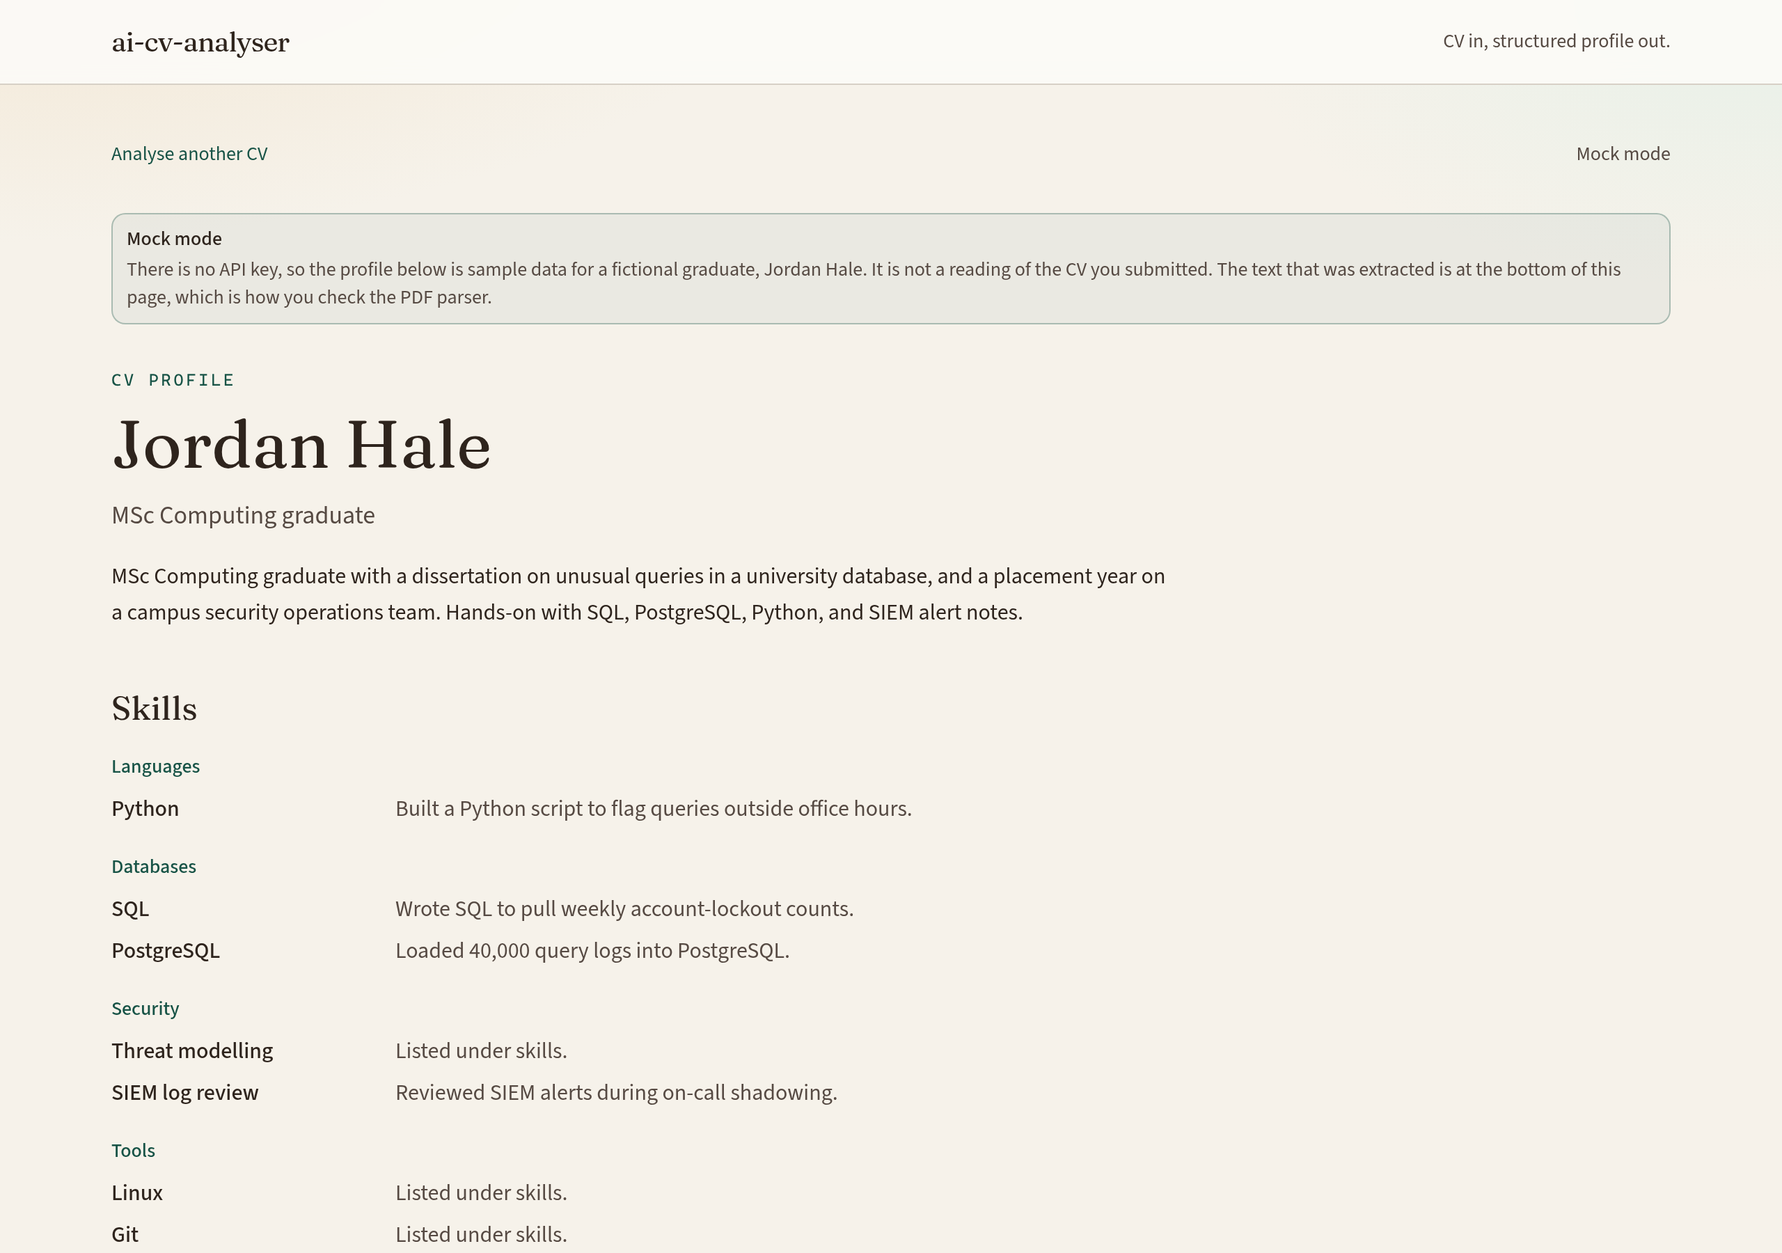
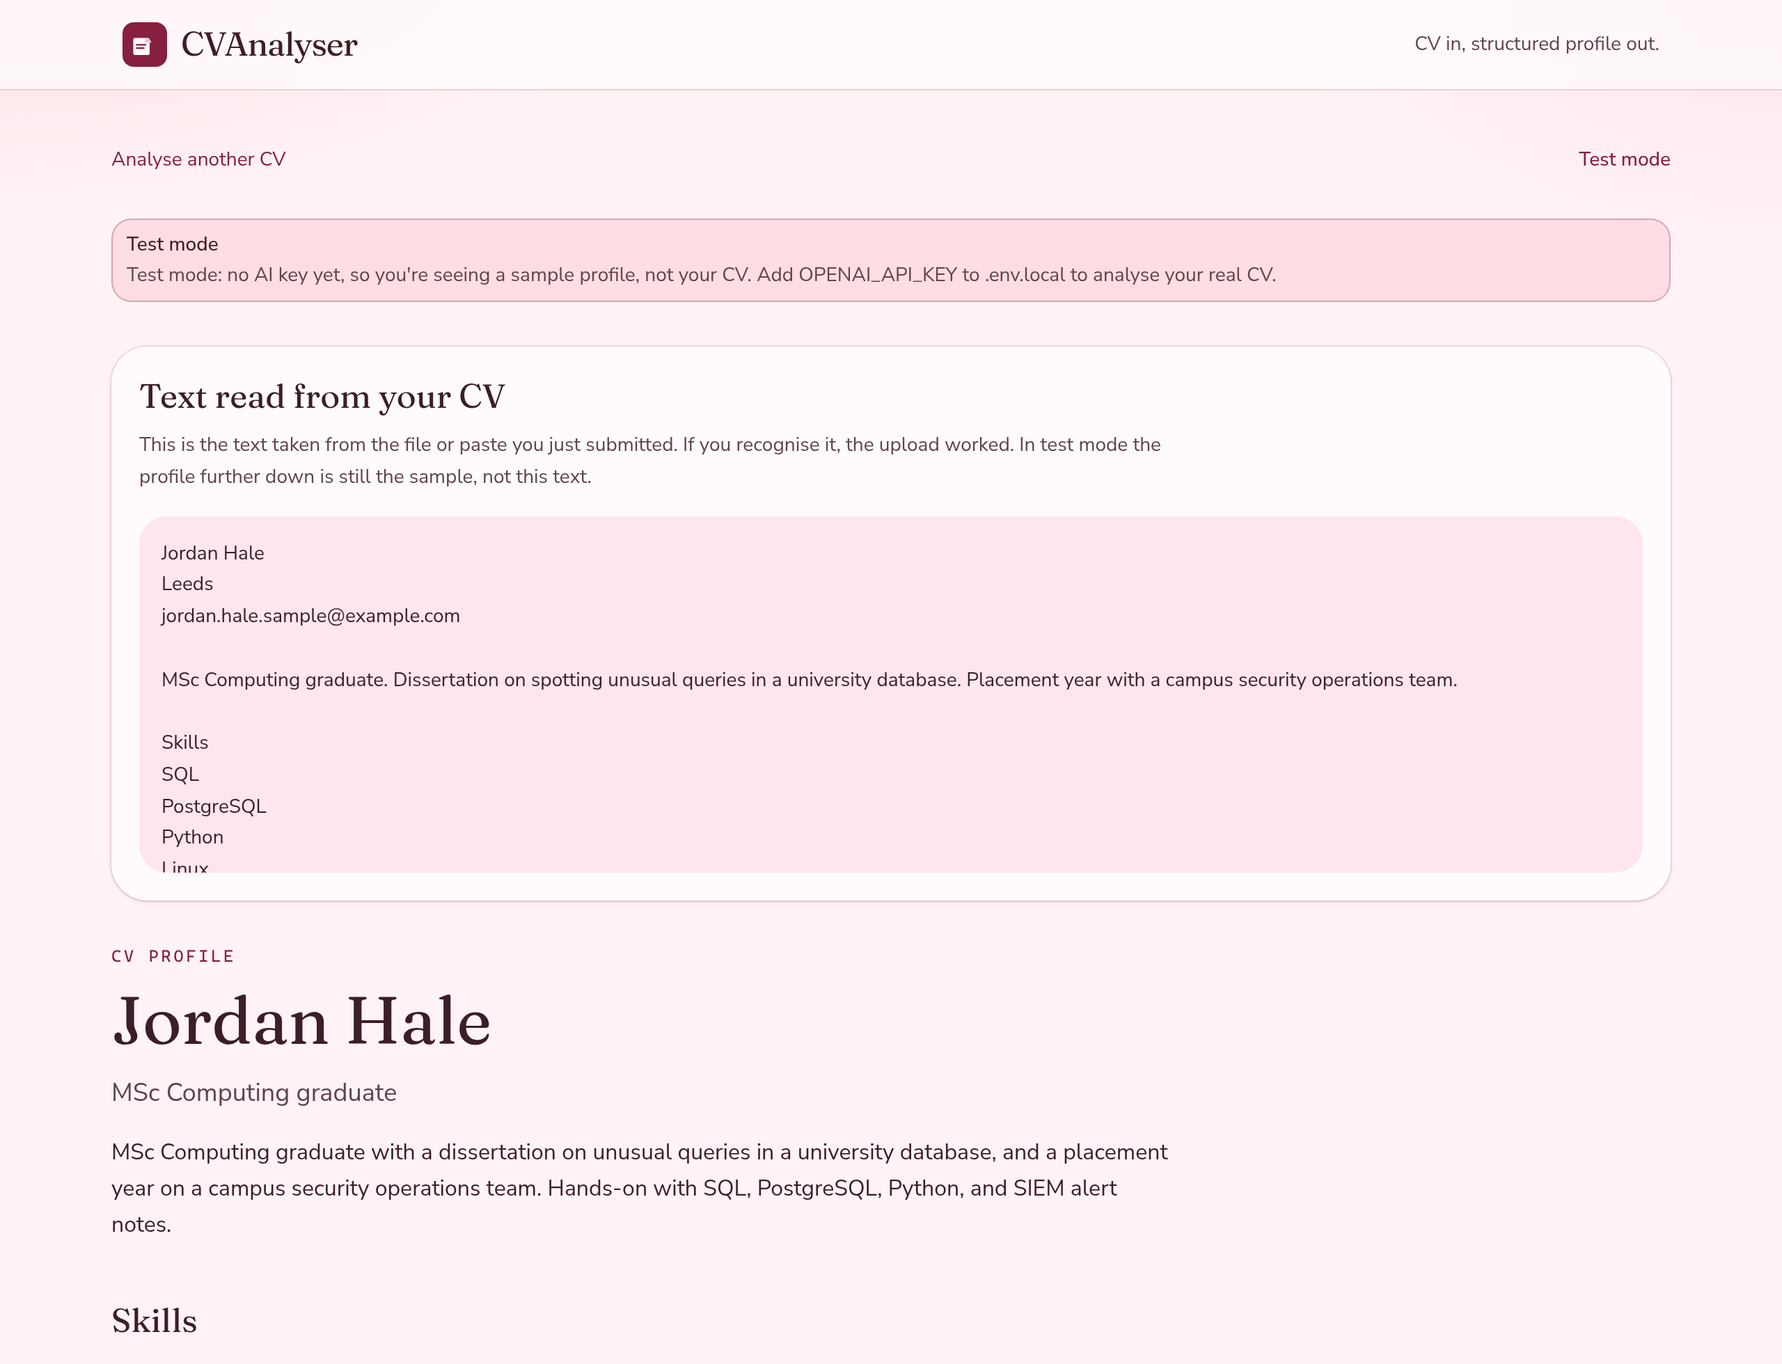
Rename the app to CVAnalyser and clarify test mode
A rose palette and a CV mark replace the old look. The results page now says, in plain words, that the profile is a sample until OPENAI_API_KEY is set, and it shows the text read from the uploaded CV above that profile.

diff --git a/app/globals.css b/app/globals.css
@@ -7,7 +7,7 @@
 @theme inline {
   --color-background: var(--background);
   --color-foreground: var(--foreground);
-  --font-sans: var(--font-source), "Source Sans 3", ui-sans-serif, sans-serif;
+  --font-sans: var(--font-source), "Nunito Sans", ui-sans-serif, sans-serif;
   --font-mono: ui-monospace, "Cascadia Code", "Segoe UI Mono", monospace;
   --font-heading: var(--font-display), Georgia, "Times New Roman", serif;
   --color-sidebar-ring: var(--sidebar-ring);
@@ -49,30 +49,30 @@
 }
 
 :root {
-  --background: oklch(0.962 0.012 88);
-  --foreground: oklch(0.27 0.02 55);
-  --card: oklch(0.988 0.006 92);
-  --card-foreground: oklch(0.27 0.02 55);
-  --popover: oklch(0.988 0.006 92);
-  --popover-foreground: oklch(0.27 0.02 55);
-  --primary: oklch(0.4 0.065 175);
-  --primary-foreground: oklch(0.98 0.01 95);
-  --secondary: oklch(0.93 0.018 85);
-  --secondary-foreground: oklch(0.3 0.02 55);
-  --muted: oklch(0.935 0.014 85);
-  --muted-foreground: oklch(0.42 0.02 55);
-  --accent: oklch(0.93 0.03 175);
-  --accent-foreground: oklch(0.3 0.04 175);
-  --destructive: oklch(0.577 0.245 27.325);
-  --border: oklch(0.86 0.016 80);
-  --input: oklch(0.84 0.016 80);
-  --ring: oklch(0.48 0.06 175);
+  --background: oklch(0.975 0.016 5);
+  --foreground: oklch(0.28 0.045 8);
+  --card: oklch(0.995 0.008 5);
+  --card-foreground: oklch(0.28 0.045 8);
+  --popover: oklch(0.995 0.008 5);
+  --popover-foreground: oklch(0.28 0.045 8);
+  --primary: oklch(0.42 0.14 8);
+  --primary-foreground: oklch(0.99 0.008 5);
+  --secondary: oklch(0.94 0.028 5);
+  --secondary-foreground: oklch(0.32 0.06 8);
+  --muted: oklch(0.95 0.02 5);
+  --muted-foreground: oklch(0.42 0.04 8);
+  --accent: oklch(0.93 0.04 5);
+  --accent-foreground: oklch(0.32 0.08 8);
+  --destructive: oklch(0.5 0.18 22);
+  --border: oklch(0.88 0.028 5);
+  --input: oklch(0.86 0.03 5);
+  --ring: oklch(0.52 0.14 8);
   --chart-1: oklch(0.87 0 0);
   --chart-2: oklch(0.556 0 0);
   --chart-3: oklch(0.439 0 0);
   --chart-4: oklch(0.371 0 0);
   --chart-5: oklch(0.269 0 0);
-  --radius: 0.625rem;
+  --radius: 0.9rem;
   --sidebar: oklch(0.985 0 0);
   --sidebar-foreground: oklch(0.145 0 0);
   --sidebar-primary: oklch(0.205 0 0);
@@ -128,8 +128,8 @@
   body {
     @apply bg-background text-foreground;
     background-image:
-      radial-gradient(1100px 480px at 0% -10%, oklch(0.92 0.035 80 / 0.85), transparent 55%),
-      radial-gradient(800px 420px at 100% 0%, oklch(0.93 0.03 175 / 0.45), transparent 50%);
+      radial-gradient(900px 420px at 0% -8%, oklch(0.9 0.06 5 / 0.7), transparent 55%),
+      radial-gradient(700px 380px at 100% 0%, oklch(0.92 0.05 350 / 0.55), transparent 50%);
     background-attachment: fixed;
   }
 }

diff --git a/components/analyse-form.tsx b/components/analyse-form.tsx
@@ -121,12 +121,18 @@ export function AnalyseForm() {
   }
 
   return (
-    <form onSubmit={onSubmit} className="rounded-xl bg-card px-4 py-5 ring-1 ring-foreground/10 sm:px-6" aria-busy={pending}>
-      <div className="flex flex-col gap-2 sm:flex-row sm:items-end sm:justify-between">
+    <form onSubmit={onSubmit} className="rounded-2xl bg-card px-4 py-6 shadow-sm ring-1 ring-primary/10 sm:px-6" aria-busy={pending}>
+      <Alert className="mb-5 border-primary/25 bg-accent">
+        <AlertTitle>Test mode</AlertTitle>
+        <AlertDescription>
+          No AI key yet. The next page will show a sample profile, not a reading of your CV. Add OPENAI_API_KEY to .env.local to analyse your real CV. The text from your file is still shown, so you can see that the upload worked.
+        </AlertDescription>
+      </Alert>
+      <div className="flex flex-col gap-3 sm:flex-row sm:items-end sm:justify-between">
         <div>
-          <h2 className="font-heading text-2xl">CV and job advert</h2>
+          <h2 className="font-heading text-2xl">Your CV</h2>
           <p className="mt-1 max-w-xl text-sm text-muted-foreground">
-            No key needed to try it. Without <span className="font-mono text-xs">OPENAI_API_KEY</span>, the profile is sample data and the text below is still read locally.
+            Paste the text, or upload a PDF that contains real text rather than a scan.
           </p>
         </div>
         <Button type="button" variant="outline" onClick={loadSample} disabled={pending}>
@@ -221,8 +227,11 @@ export function AnalyseForm() {
           placeholder="Paste the advert here."
           className="mt-2 min-h-40 md:text-base"
         />
+        <p className="mt-2 text-sm leading-relaxed text-muted-foreground">
+          This is the job you want the CV compared with. CVAnalyser keeps the wording you paste. Matching that advert against the CV starts in Lesson 1, and it is not built yet.
+        </p>
         <p className="mt-1 text-xs text-muted-foreground">
-          Kept with the result. Not sent to a model until lesson 1. {jobAdvert.trim().length} characters, at least {MIN_JOB_CHARS}.
+          {jobAdvert.trim().length} characters. At least {MIN_JOB_CHARS}.
         </p>
       </div>
 
@@ -238,7 +247,7 @@ export function AnalyseForm() {
           {pending ? "Reading the CV…" : "Analyse CV"}
         </Button>
         <p className="text-sm text-muted-foreground">
-          The profile opens on the next page. Other sections stay marked as lessons until you build them.
+          The next page shows what was read from your CV. Without an API key, the profile itself is the sample.
         </p>
       </div>
     </form>

diff --git a/components/site-chrome.tsx b/components/site-chrome.tsx
@@ -1,17 +1,41 @@
 import Link from "next/link";
 
+function Mark({ className }: { className?: string }) {
+  return (
+    <svg
+      viewBox="0 0 32 32"
+      aria-hidden="true"
+      className={className}
+    >
+      <rect width="32" height="32" rx="8" fill="currentColor" />
+      <path
+        d="M9 11.2h9.2c.7 0 1.3.6 1.3 1.3V22.2c0 .7-.6 1.3-1.3 1.3H9c-.7 0-1.3-.6-1.3-1.3V12.5c0-.7.6-1.3 1.3-1.3z"
+        fill="#fff7fa"
+      />
+      <path d="M16.4 11.2h1.8l2.3 2.3v1.2h-4.1V11.2z" fill="#f0c2d2" />
+      <path
+        d="M10.2 16.2h6.4M10.2 18.6h5.1"
+        stroke="currentColor"
+        strokeWidth="1.1"
+        strokeLinecap="round"
+      />
+    </svg>
+  );
+}
+
 export function SiteHeader() {
   return (
-    <header className="border-b border-border bg-card/90 backdrop-blur-sm">
-      <div className="mx-auto flex max-w-6xl items-center justify-between gap-4 px-4 py-4">
+    <header className="border-b border-border bg-card/80 backdrop-blur-md">
+      <div className="mx-auto flex max-w-6xl items-center justify-between gap-4 px-4 py-4 sm:px-6">
         <a
           href="#main"
           className="sr-only focus:not-sr-only focus:absolute focus:left-4 focus:top-4 focus:z-10 focus:rounded-md focus:bg-card focus:px-3 focus:py-2"
         >
           Skip to content
         </a>
-        <Link href="/" className="font-heading text-xl tracking-tight text-foreground">
-          ai-cv-analyser
+        <Link href="/" className="flex items-center gap-2.5 text-foreground">
+          <Mark className="size-8 text-primary" />
+          <span className="font-heading text-2xl tracking-tight">CVAnalyser</span>
         </Link>
         <p className="text-right text-sm text-muted-foreground">
           CV in, structured profile out.
@@ -24,10 +48,10 @@ export function SiteHeader() {
 export function SiteFooter() {
   return (
     <footer className="border-t border-border">
-      <div className="mx-auto flex max-w-6xl flex-col gap-2 px-4 py-6 text-sm text-muted-foreground sm:flex-row sm:items-center sm:justify-between">
-        <p>No database. The last result stays in this browser tab.</p>
+      <div className="mx-auto flex max-w-6xl flex-col gap-2 px-4 py-8 text-sm text-muted-foreground sm:flex-row sm:items-center sm:justify-between sm:px-6">
+        <p>CVAnalyser keeps the last result in this browser tab. Nothing is saved in a database.</p>
         <p className="max-w-md sm:text-right">
-          Live mode sends the CV text to the OpenAI API. Mock mode does not.
+          Test mode does not send your CV anywhere. With an API key, the CV text goes to OpenAI.
         </p>
       </div>
     </footer>

diff --git a/components/results-view.tsx b/components/results-view.tsx
@@ -46,16 +46,16 @@ export function ResultsView() {
         <Link href="/" className="text-sm text-primary underline-offset-4 hover:underline">
           Analyse another CV
         </Link>
-        <p className="text-sm text-muted-foreground">
-          {result.mode === "mock" ? "Mock mode" : `Live mode · ${result.model ?? "model"}`}
+        <p className="text-sm font-medium text-primary">
+          {result.mode === "mock" ? "Test mode" : `Live · ${result.model ?? "model"}`}
         </p>
       </div>
 
       {result.mode === "mock" ? (
-        <Alert className="border-primary/30 bg-primary/5">
-          <AlertTitle>Mock mode</AlertTitle>
+        <Alert className="border-primary/30 bg-accent">
+          <AlertTitle>Test mode</AlertTitle>
           <AlertDescription>
-            There is no API key, so the profile below is sample data for a fictional graduate, Jordan Hale. It is not a reading of the CV you submitted. The text that was extracted is at the bottom of this page, which is how you check the PDF parser.
+            Test mode: no AI key yet, so you&apos;re seeing a sample profile, not your CV. Add OPENAI_API_KEY to .env.local to analyse your real CV.
           </AlertDescription>
         </Alert>
       ) : (
@@ -104,15 +104,18 @@ export function ResultsView() {
         </Alert>
       ) : null}
 
-      <CvProfileView profile={result.cvProfile} />
-      <PlannedSections result={result} />
-
-      <details className="text-sm">
-        <summary className="cursor-pointer text-muted-foreground">Text sent for extraction</summary>
-        <pre className="mt-2 max-h-96 overflow-auto whitespace-pre-wrap rounded-lg bg-muted/70 p-3 font-sans text-sm">
+      <section className="rounded-2xl bg-card px-5 py-5 shadow-sm ring-1 ring-primary/10">
+        <h2 className="font-heading text-2xl">Text read from your CV</h2>
+        <p className="mt-2 max-w-3xl text-sm leading-relaxed text-muted-foreground">
+          This is the text taken from the file or paste you just submitted. If you recognise it, the upload worked. In test mode the profile further down is still the sample, not this text.
+        </p>
+        <pre className="mt-4 max-h-64 overflow-auto whitespace-pre-wrap rounded-xl bg-accent/70 p-4 font-sans text-sm leading-relaxed">
           {result.cvText}
         </pre>
-      </details>
+      </section>
+
+      <CvProfileView profile={result.cvProfile} />
+      <PlannedSections result={result} />
     </div>
   );
 }

diff --git a/components/planned-sections.tsx b/components/planned-sections.tsx
@@ -44,14 +44,27 @@ export function PlannedSections({ result }: { result: AnalyseResponse }) {
             ) : null}
           </div>
         ) : (
-          <LessonCard step={lessonStep("job")} />
+          <div className="space-y-4">
+            <div className="rounded-2xl bg-card px-5 py-5 shadow-sm ring-1 ring-primary/10">
+              <h2 className="font-heading text-2xl">Your job advert</h2>
+              <p className="mt-2 max-w-3xl text-sm leading-relaxed text-muted-foreground">
+                This is the advert you pasted. CVAnalyser has not matched it to the CV. That matching starts in Lesson 1, and it is not built yet.
+              </p>
+              <pre className="mt-4 max-h-56 overflow-auto whitespace-pre-wrap rounded-xl bg-accent/70 p-4 font-sans text-sm leading-relaxed">
+                {result.jobAdvertText}
+              </pre>
+            </div>
+            <LessonCard step={lessonStep("job")} />
+          </div>
         )}
-        <details className="mt-3 text-sm">
-          <summary className="cursor-pointer text-muted-foreground">Job advert text</summary>
-          <pre className="mt-2 max-h-64 overflow-auto whitespace-pre-wrap rounded-lg bg-muted/70 p-3 font-sans text-sm">
-            {result.jobAdvertText}
-          </pre>
-        </details>
+        {result.jobProfile ? (
+          <details className="mt-3 text-sm" open>
+            <summary className="cursor-pointer text-muted-foreground">Job advert you pasted</summary>
+            <pre className="mt-2 max-h-64 overflow-auto whitespace-pre-wrap rounded-xl bg-accent/70 p-4 font-sans text-sm">
+              {result.jobAdvertText}
+            </pre>
+          </details>
+        ) : null}
       </section>
 
       <section>

diff --git a/app/page.tsx b/app/page.tsx
@@ -5,12 +5,12 @@ export default function HomePage() {
   return (
     <div className="mx-auto grid max-w-6xl gap-10 px-4 py-10 lg:grid-cols-[minmax(0,1fr)_300px] lg:items-start lg:py-14">
       <div>
-        <p className="font-mono text-xs uppercase tracking-[0.16em] text-primary">CV lab</p>
+        <p className="text-sm font-semibold tracking-wide text-primary">CVAnalyser</p>
         <h1 className="mt-3 max-w-xl font-heading text-4xl leading-tight sm:text-5xl">
           Read the CV before you rewrite it.
         </h1>
         <p className="mt-4 max-w-xl text-lg leading-relaxed text-muted-foreground">
-          Upload a PDF or paste the text, then put a job advert next to it. This build returns skills, roles, and education as structured JSON. The score, the gaps, and the new bullets are lessons, and the page is ready for them.
+          Upload a PDF or paste the text, then put a job advert beside it. With an API key, CVAnalyser turns the CV into skills, roles, and education. The score, the gaps, and the new bullets are lessons, and the page is ready for them.
         </p>
         <div className="mt-8">
           <AnalyseForm />

diff --git a/app/layout.tsx b/app/layout.tsx
@@ -1,11 +1,11 @@
 import type { Metadata } from "next";
-import { Fraunces, Source_Sans_3 } from "next/font/google";
+import { Fraunces, Nunito_Sans } from "next/font/google";
 
 import { SiteFooter, SiteHeader } from "@/components/site-chrome";
 
 import "./globals.css";
 
-const sourceSans = Source_Sans_3({
+const sourceSans = Nunito_Sans({
   subsets: ["latin"],
   variable: "--font-source",
   display: "swap",
@@ -19,8 +19,8 @@ const fraunces = Fraunces({
 
 export const metadata: Metadata = {
   title: {
-    default: "ai-cv-analyser",
-    template: "%s · ai-cv-analyser",
+    default: "CVAnalyser",
+    template: "%s · CVAnalyser",
   },
   description:
     "Read a CV into a structured profile and line it up against a job advert.",

diff --git a/components/lesson-card.tsx b/components/lesson-card.tsx
@@ -2,7 +2,7 @@ import type { PipelineStep } from "@/lib/pipeline";
 
 export function LessonCard({ step }: { step: PipelineStep }) {
   return (
-    <article className="rounded-xl border border-dashed border-border bg-background/60 px-4 py-4">
+    <article className="rounded-2xl border border-dashed border-primary/35 bg-accent/40 px-5 py-5">
       <p className="font-mono text-xs uppercase tracking-[0.14em] text-primary">
         Lesson {step.lesson}
         {step.lessonName ? ` · ${step.lessonName}` : ""}

diff --git a/components/pipeline-list.tsx b/components/pipeline-list.tsx
@@ -4,7 +4,7 @@ import { Badge } from "@/components/ui/badge";
 
 export function PipelineList() {
   return (
-    <section className="rounded-xl bg-card px-4 py-4 ring-1 ring-foreground/10">
+    <section className="rounded-2xl bg-card px-5 py-5 shadow-sm ring-1 ring-primary/10">
       <h2 className="font-heading text-lg">In this build</h2>
       <p className="mt-1 text-sm text-muted-foreground">
         Two steps run today. The rest are lessons, and the results page is already waiting for them.

diff --git a/README.md b/README.md
@@ -1,10 +1,12 @@
-# ai-cv-analyser
+# CVAnalyser
 
 A CV and a job advert go in. A structured profile comes out: skills, roles, and education, checked against a schema before the page ever sees them.
 
+The npm package and repository name stay `ai-cv-analyser`. The name on the page is CVAnalyser.
+
 The match score, the gap list, rewritten bullets, and study links are stubbed on purpose. [LESSON_PLAN.md](LESSON_PLAN.md) is the build order for those pieces. The results page already has a place for each one.
 
-Jordan Hale, the person you see in mock mode, is fictional.
+Jordan Hale, the person you see in test mode, is fictional. Without `OPENAI_API_KEY`, CVAnalyser shows that sample profile and also the text it actually read from your file.
 
 ## What works today
 
@@ -24,17 +26,17 @@ Update this table when a lesson is finished. It is the first thing a reader shou
 
 ## Screenshots
 
-The form, with the sample CV and advert loaded:
+The form, with the sample CV and advert loaded. The test-mode note sits above the fields:
 
-![The home page: CV text, job advert, and a list of what this build does](docs/screenshots/home.png)
+![CVAnalyser home page with the sample CV loaded and a test-mode note](docs/screenshots/home.png)
 
-Mock mode on the results page. The profile is sample data:
+Test mode on the results page. The banner says the profile is a sample, and the text read from the file is shown first:
 
-![The results page showing Jordan Hale's structured profile](docs/screenshots/results.png)
+![CVAnalyser results in test mode, with the extracted CV text above the sample profile](docs/screenshots/results.png)
 
-The full results page, including the lesson slots:
+The rest of that page keeps the job advert and the lesson slots:
 
-![The full results page, with lesson cards under the profile](docs/screenshots/results-full.png)
+![CVAnalyser results page continuing into the job advert and lesson cards](docs/screenshots/results-full.png)
 
 ## How it fits together
 
@@ -66,7 +68,7 @@ flowchart TD
   stubs --> page
 ```
 
-The browser keeps the last result in `sessionStorage` for this tab. There is no database. In live mode the CV text is sent to OpenAI with `store: false`. Mock mode does not make that call.
+The browser keeps the last result in `sessionStorage` for this tab. There is no database. With an API key, the CV text is sent to OpenAI with `store: false`. Test mode does not make that call.
 
 ## Setup
 
@@ -100,7 +102,7 @@ Set `MOCK_LLM=true` to force the sample profile even when a key is present.
 - **Structured outputs, not a hopeful `JSON.parse`.** `lib/cv/extract-cv-profile.ts` calls `chat.completions.parse` with `zodResponseFormat`. The Zod schema is the contract for both the model and the page. Optional fields are not used: strict mode rejects them, so missing text is an empty string.
 - **The model is told the CV is data.** The document sits inside `<cv>` markers in the user message. Lesson 6 is the code-side guard, because a prompt is not a control. That matters for a tool whose input is written by the candidate.
 - **PDF text stays on the server.** `unpdf` runs in the route handler. Scanned pages fail with a clear message instead of an empty profile.
-- **Mock mode is a first-class path.** Reviewers can run the app without a secret. The banner on the results page says the profile is sample data, and the extracted text is still shown so the PDF parser can be checked.
+- **Test mode is obvious.** With no API key the results banner says you are seeing a sample profile, not your CV, and the text read from the file is shown above that profile.
 - **Later steps cannot take down the profile.** If a lesson function throws, `lib/analyse.ts` keeps the CV profile and puts the error on the page.
 - **Embeddings are part of the design, not a keyword hack.** Lesson 2 scores exact matches in ordinary TypeScript, then uses embeddings only for the names that did not join. The catalogue in lesson 5 is a real list of docs, so the app is not asked to invent URLs.
 
